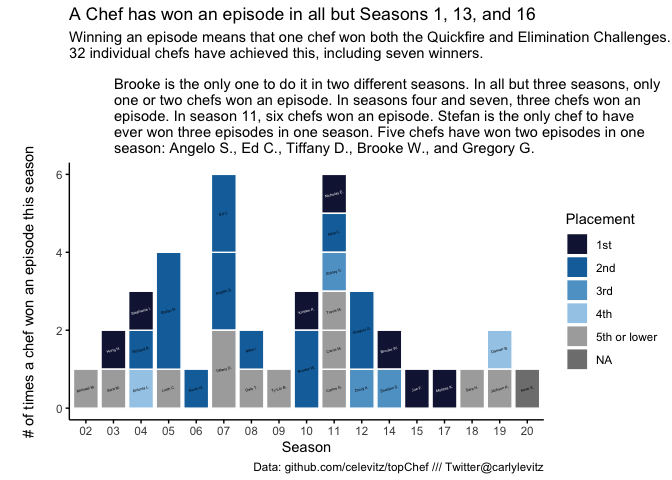
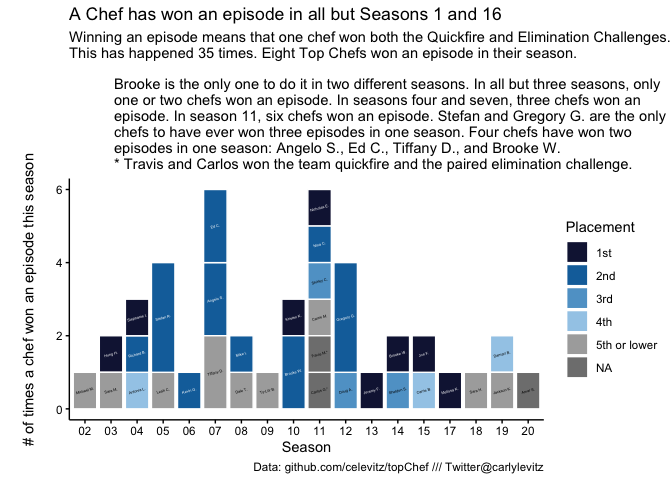
Update "won episode" example - SDQ as QF

diff --git a/README.md b/README.md
@@ -16,16 +16,6 @@ Not yet on CRAN. So please use:
 
 ``` r
 devtools::install_github("celevitz/topChef")
-#> 
-#> ── R CMD build ─────────────────────────────────────────────────────────────────
-#>      checking for file ‘/private/var/folders/0p/_s6v9q110z9fh4y0vq9ml47m0000gp/T/Rtmp3YibEr/remotesf57039870d00/celevitz-topChef-c00afee/DESCRIPTION’ ...  ✔  checking for file ‘/private/var/folders/0p/_s6v9q110z9fh4y0vq9ml47m0000gp/T/Rtmp3YibEr/remotesf57039870d00/celevitz-topChef-c00afee/DESCRIPTION’
-#>   ─  preparing ‘topChef’:
-#>      checking DESCRIPTION meta-information ...  ✔  checking DESCRIPTION meta-information
-#>   ─  checking for LF line-endings in source and make files and shell scripts
-#>   ─  checking for empty or unneeded directories
-#>   ─  building ‘topChef_0.1.0.tar.gz’
-#>      
-#> 
 ```
 
 ## 3. References & Acknowlegements
@@ -109,7 +99,7 @@ A tibble containing win and loss data for each chef in each episode.
 
 ``` r
 challengewins
-#> # A tibble: 9,544 × 9
+#> # A tibble: 9,555 × 9
 #>    szn      sznnumber series episode in.competition chef  challenge_type outcome
 #>    <chr>        <dbl> <chr>    <dbl> <lgl>          <chr> <chr>          <chr>  
 #>  1 All Sta…         8 US           1 TRUE           Ange… Quickfire      LOW    
@@ -122,7 +112,7 @@ challengewins
 #>  8 All Sta…         8 US           1 TRUE           Fabi… Quickfire      LOW    
 #>  9 All Sta…         8 US           1 TRUE           Jami… Quickfire      LOW    
 #> 10 All Sta…         8 US           1 TRUE           Jenn… Quickfire      HIGH   
-#> # ℹ 9,534 more rows
+#> # ℹ 9,545 more rows
 #> # ℹ 1 more variable: rating <dbl>
 ```
 
@@ -254,23 +244,28 @@ chefdetails %>%
 library(ggplot2); library(topChef)
 ## Won the episode
     # Data set up
-        # how many episodes each chef won in each season
+      # how many episodes each chef won in each season
           wonepi <- challengewins %>% select(!rating) %>%
-                mutate(challenge_type=case_when(challenge_type %in% c("Quickfire Elimination","Sudden Death Quickfire") ~ "Elimination"
-                                                ,TRUE ~ challenge_type)) %>%
-                filter(outcome %in% c("WIN","WINNER") & challenge_type %in% c("Elimination","Quickfire")) %>%
-                distinct() %>%
-                pivot_wider(names_from=challenge_type,values_from=outcome) %>%
-                filter(Quickfire == "WIN" & (Elimination %in% c("WIN","WINNER"))) %>%
-                group_by(series,szn,sznnumber,chef) %>%
-                summarise(n=n()) %>%
-                select(series,szn,sznnumber,chef,n) %>%
-                distinct() %>%
-                mutate(sznnumberchar=case_when(sznnumber <= 9 ~paste0("0",as.character(sznnumber))
-                                               ,TRUE ~as.character(sznnumber)) ) %>%
-                filter(series == "US") 
+                    mutate(challenge_type=case_when(challenge_type %in% c("Quickfire Elimination","Sudden Death Quickfire") ~ "Quickfire"
+                                                    ,TRUE ~ challenge_type)) %>%
+                    filter(outcome %in% c("WIN","WINNER") & challenge_type %in% c("Elimination","Quickfire")) %>%
+                    distinct() %>%
+                    pivot_wider(names_from=challenge_type,values_from=outcome) %>%
+                    filter(Quickfire == "WIN" & (Elimination %in% c("WIN","WINNER"))) %>%
+                    # were there multiple winners
+                      group_by(series,szn,sznnumber, episode) %>%
+                      mutate(nchefs=n()
+                             ,chef=ifelse(nchefs > 1,paste0(chef,"*"),chef)) %>%
+                    # how many times did each chef win an episode?
+                    ungroup() %>% group_by(series,szn,sznnumber,chef) %>%
+                    summarise(n=n()) %>%
+                    select(series,szn,sznnumber,chef,n) %>%
+                    distinct() %>%
+                    mutate(sznnumberchar=case_when(sznnumber <= 9 ~paste0("0",as.character(sznnumber))
+                                                   ,TRUE ~as.character(sznnumber)) ) %>%
+                    filter(series == "US") 
           
-          # visualize
+    # visualize
           wonepivizdata <- wonepi %>%
             # add on placement of chefs, just for those who have won an episode
             left_join(topChef::chefdetails %>% select(szn,sznnumber,chef,placement)) %>%
@@ -292,15 +287,17 @@ library(ggplot2); library(topChef)
             geom_col(position="stack",color="white") +
             geom_text(size = 1, position = position_stack(vjust=.5),angle=15
                       ,color=case_when(wonepivizdata$placement == "1st"~ "white"
-                                       ,wonepivizdata$placement != "1st" ~ "black"
+                                       ,wonepivizdata$placement == "2nd" ~ "white"
+                                       ,TRUE ~ "black"
                                        ,is.na(wonepivizdata$placement) ~ "black")) +
-            labs(title="A Chef has won an episode in all but Seasons 1, 13, and 16"
-                 ,subtitle="Winning an episode means that one chef won both the Quickfire and Elimination Challenges.\n32 individual chefs have achieved this, including seven winners.\n
+            labs(title="A Chef has won an episode in all but Seasons 1 and 16"
+                 ,subtitle="Winning an episode means that one chef won both the Quickfire and Elimination Challenges.\nThis has happened 35 times. Eight Top Chefs won an episode in their season.\n
            Brooke is the only one to do it in two different seasons. In all but three seasons, only 
            one or two chefs won an episode. In seasons four and seven, three chefs won an 
-           episode. In season 11, six chefs won an episode. Stefan is the only chef to have 
-           ever won three episodes in one season. Five chefs have won two episodes in one 
-           season: Angelo S., Ed C., Tiffany D., Brooke W., and Gregory G."
+           episode. In season 11, six chefs won an episode. Stefan and Gregory G. are the only 
+           chefs to have ever won three episodes in one season. Four chefs have won two 
+           episodes in one season: Angelo S., Ed C., Tiffany D., and Brooke W. 
+           * Travis and Carlos won the team quickfire and the paired elimination challenge."
                  ,caption= "Data: github.com/celevitz/topChef /// Twitter@carlylevitz") +
             ylab("\n# of times a chef won an episode this season\n") +
             xlab("Season") +
@@ -309,8 +306,13 @@ library(ggplot2); library(topChef)
                   ,axis.line.x=element_line(color="black")
                   ,axis.ticks.x=element_line(color="black")
                   ,axis.line.y=element_line(color="black")
-                  ,axis.ticks.y=element_line(color="black")  ) +
+                  ,axis.ticks.y=element_line(color="black")
+                  ,axis.text.x=element_text(color="black")
+                  ,axis.text.y=element_text(color="black")
+                  ,axis.title.x = element_text(color="black")
+                  ,axis.title.y = element_text(color="black") ) +
             guides(fill = guide_legend(title = "Placement"))
+          
 ```
 
 ## 5. Weighted Index Function
